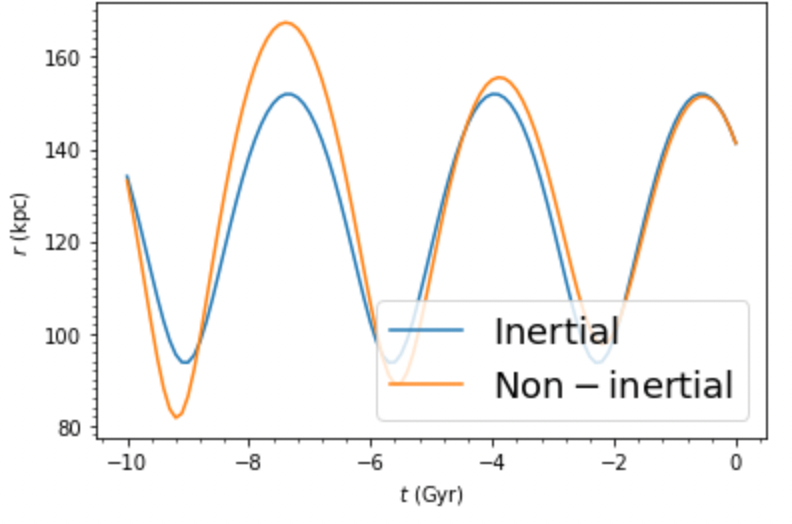
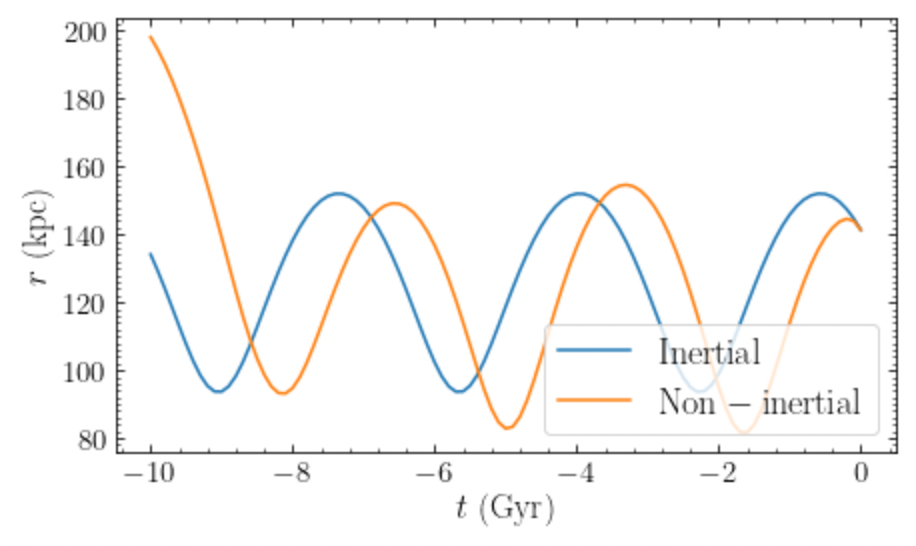
Fix LMC non-inertial example, add some more diagnostic plots

diff --git a/doc/source/orbit.rst b/doc/source/orbit.rst
@@ -1349,7 +1349,7 @@ Directly using these accelerations in the ``NonInertialFrameForce`` is very
 slow (because they have to be evaluated *a lot* during orbit integration), 
 so we build interpolated versions to speed things up:
 
->>> t_intunits= o.time(use_physical=False)
+>>> t_intunits= o.time(use_physical=False)[::-1] # need to reverse the order for interp
 >>> ax4int= [ax(t) for t in t_intunits]
 >>> ax_int= lambda t: numpy.interp(t,t_intunits,ax4int)
 >>> ay4int= [ay(t) for t in t_intunits]
@@ -1380,7 +1380,7 @@ This gives
 .. image:: images/mwp14-lmcacc-sun.png
    :scale: 60 %
 
-We see that there is no perceptible difference. This is because the 
+We see that there is only a small difference. This is because the 
 acceleration of the origin due to the LMC is much smaller than the 
 acceleration felt by the Sun during its orbit from the Milky Way. 
 However, if we look at a dwarf galaxy orbiting far in the halo, we 
@@ -1404,4 +1404,70 @@ This gives
 
 Now we see that there are significant differences in the past orbit 
 when we take the acceleration of the Galactocentric reference frame 
-into account.
+into account. The reason that the orbit changes abruptly at :math:`-8\,\mathrm{Gyr}` 
+is because the LMC has a previous pericenter passage then in the orbit that 
+we calculated for it, leading to a significant fictitious acceleration force 
+at that time. Whether this is correct is of course highly uncertain.
+
+To check whether the acceleration of the Milky Way's origin that we 
+obtained using the simple approximation above is realistic, we can, 
+for example, compare to the results shown in Figure 10 of 
+`Vasiliev et al. (2021) <https://ui.adsabs.harvard.edu/abs/2021MNRAS.501.2279V/abstract>`__. 
+This figure displays the displacement of the Milky Way's origin and 
+its velocity as a function of time, and also the fictitious force 
+induced by the acceleration of the origin (this is minus the acceleration). 
+To compute these quantities for the model above, we simply integrate the 
+acceleration (starting 3 Gyr ago like Vasiliev et al.):
+
+>>> from scipy import integrate
+>>> from galpy.util import conversion
+>>> vo, ro= 220., 8.
+>>> int_ts_phys= numpy.linspace(-3.,0.,101)
+>>> int_ts= int_ts_phys/conversion.time_in_Gyr(vo,ro)
+>>> ax4plot= ax_int(int_ts)
+>>> ay4plot= ay_int(int_ts)
+>>> az4plot= az_int(int_ts)
+>>> vx4plot= integrate.cumulative_trapezoid(ax4plot,x=int_ts,initial=0.)
+>>> vy4plot= integrate.cumulative_trapezoid(ay4plot,x=int_ts,initial=0.)
+>>> vz4plot= integrate.cumulative_trapezoid(az4plot,x=int_ts,initial=0.)
+>>> xx4plot= integrate.cumulative_trapezoid(vx4plot,x=int_ts,initial=0.)
+>>> xy4plot= integrate.cumulative_trapezoid(vy4plot,x=int_ts,initial=0.)
+>>> xz4plot= integrate.cumulative_trapezoid(vz4plot,x=int_ts,initial=0.)
+>>> plt.figure(figsize=(11,3.5))
+>>> plt.subplot(1,3,1)
+>>> plt.plot(int_ts_phys,xx4plot*ro,color=(0.5,0.5,247./256.),lw=2.,
+             label=r'$x$')
+>>> plt.plot(int_ts_phys,xy4plot*ro,color=(111./256,180./256,109./256),lw=2.,
+             label=r'$y$')
+>>> plt.plot(int_ts_phys,xz4plot*ro,color=(239./256,135./256,132./256),lw=2.,
+             label=r'$z$')
+>>> plt.xlabel(r'$\mathrm{time}\,(\mathrm{Gyr})$')
+>>> plt.ylabel(r'$\mathrm{displacement}\,(\mathrm{kpc})$')
+>>> plt.legend(frameon=False,fontsize=18.)
+>>> plt.subplot(1,3,2)
+>>> plt.plot(int_ts_phys,vx4plot*vo,color=(0.5,0.5,247./256.),lw=2.)
+>>> plt.plot(int_ts_phys,vy4plot*vo,color=(111./256,180./256,109./256),lw=2.)
+>>> plt.plot(int_ts_phys,vz4plot*vo,color=(239./256,135./256,132./256),lw=2.)
+>>> plt.xlabel(r'$\mathrm{time}\,(\mathrm{Gyr})$')
+>>> plt.ylabel(r'$\mathrm{velocity}\,(\mathrm{km\,s}^{-1})$')
+>>> plt.subplot(1,3,3)
+>>> plt.plot(int_ts_phys,-ax4plot*conversion.force_in_kmsMyr(vo,ro)*1000.,
+             color=(0.5,0.5,247./256.),lw=2.)
+>>> plt.plot(int_ts_phys,-ay4plot*conversion.force_in_kmsMyr(vo,ro)*1000.,
+             color=(111./256,180./256,109./256),lw=2.)
+>>> plt.plot(int_ts_phys,-az4plot*conversion.force_in_kmsMyr(vo,ro)*1000.,
+             color=(239./256,135./256,132./256),lw=2.)
+>>> plt.xlabel(r'$\mathrm{time}\,(\mathrm{Gyr})$')
+>>> plt.ylabel(r'$\mathrm{acceleration}\,(\mathrm{km\,s}^{-1}\,\mathrm{Gyr}^{-1})$')
+>>> plt.tight_layout()
+
+and we obtain
+
+.. image:: images/mwp14-lmcacc-displacement-etc.png
+   :scale: 60 %
+
+The main trends and magnitudes in this figure are the same as those 
+in figure 10 of Vasiliev et al., so the acceleration of the origin that 
+we computed here is reasonable. Note that Vasiliev et al. use a different 
+LMC mass and that other aspects of their modeling differ (like the Milky Way's 
+potential), so we don't expect an exact match.
